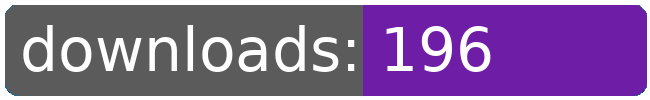
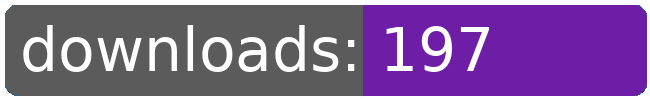
dl log written

Changed region(s): [[0.7077, 0.24, 0.7692, 0.72]]

diff --git a/README.md b/README.md
@@ -21,8 +21,8 @@
 		<td>90</td>
 		<td>132</td>
 		<td>168</td>
-		<td>196</td>
-		<td>+ 28</td>
+		<td>197</td>
+		<td>+ 29</td>
 	</tr>
 	<tr>
 		<td>aberrant.kahet.outfitter</td>
@@ -32,8 +32,8 @@
 		<td>13</td>
 		<td>38</td>
 		<td>76</td>
-		<td>108</td>
-		<td>+ 32</td>
+		<td>109</td>
+		<td>+ 33</td>
 	</tr>
 	<tr>
 		<td>bunrodeaoutfitter</td>
@@ -175,8 +175,8 @@
 		<td></td>
 		<td></td>
 		<td></td>
-		<td>2074</td>
-		<td>337</td>
+		<td>2076</td>
+		<td>339</td>
 	</tr>
 </table>
 </sub></sup>
@@ -267,8 +267,8 @@
 		<td>90</td>
 		<td>132</td>
 		<td>168</td>
-		<td>196</td>
-		<td>+ 28</td>
+		<td>197</td>
+		<td>+ 29</td>
 	</tr>
 	<tr>
 		<td>tributequarg</td>
@@ -300,8 +300,8 @@
 		<td>13</td>
 		<td>38</td>
 		<td>76</td>
-		<td>108</td>
-		<td>+ 32</td>
+		<td>109</td>
+		<td>+ 33</td>
 	</tr>
 	<tr>
 		<td>quargoutfitter</td>
@@ -355,8 +355,8 @@
 		<td></td>
 		<td></td>
 		<td></td>
-		<td>2074</td>
-		<td>337</td>
+		<td>2076</td>
+		<td>339</td>
 	</tr>
 </table>
 </sub></sup>
